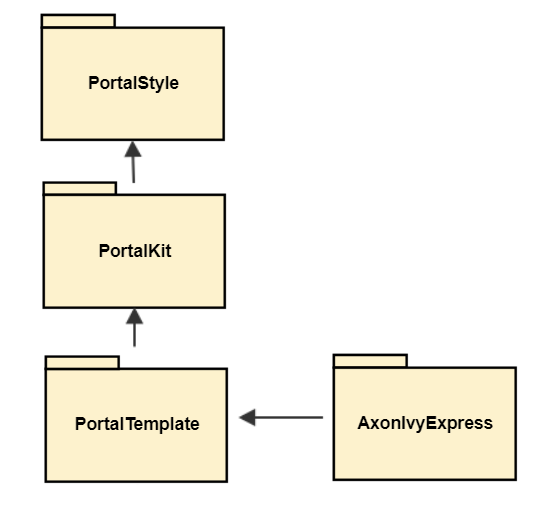
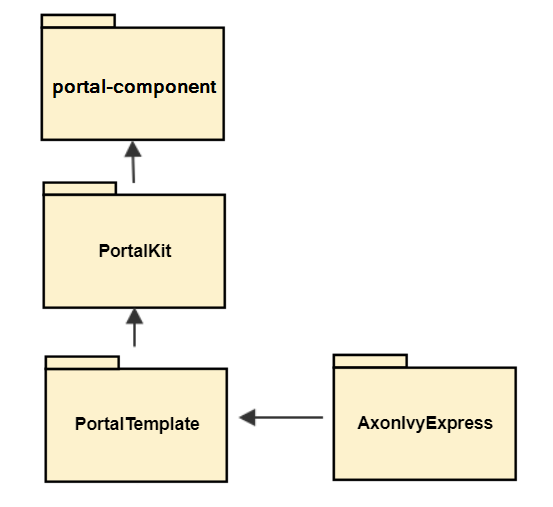
IVYPORTAL-13778-Remove-portalStyle-project * update document

Changed region(s): [[0.0922, 0.1479, 0.3996, 0.2071]]

diff --git a/Documentation/portal-guide/source/portal-developer-guide/customization/portal-style-customization-logos-colors-date-patterns.rst b/Documentation/portal-guide/source/portal-developer-guide/customization/portal-style-customization-logos-colors-date-patterns.rst
@@ -1,15 +1,15 @@
 .. _customization-portal-logos-and-colors:
 
-Portalstyle Customization (Logos, Colors, Date Patterns)
-========================================================
+Portal Styles Customization (Logos, Colors, Date Patterns)
+==========================================================
 
 .. _customization-portal-logos-and-colors-change-portal-logos:
 
 Change Logos in Portal
 ----------------------
 
-You can change both the top-left corner logo in the menu and the login logo by modifying the
-default logo graphics in the PortalStyle project. 
+You can change both the top-left corner logo in the menu and the login logo by
+using :dev-url:`Engine Branding </doc/nightly/designer-guide/user-interface/branding/branding-engine.html>`.
 
 We allow for two different logo graphics for the expanded and the collapsed
 menu. You can use one "pure" logo for the small, quadratic format (default: 42x42 pixels), and a logo
@@ -29,17 +29,13 @@ high resolution to prevent the blurring.
 We recommend using images with a transparent background, if your Corporate
 Identity does not define a mandatory background color. 
 
-To change the logos used in the Portal, follow the guidelines below.
+To change the logos used in the Portal, please use resources that are described at 
+:dev-url:`User Interface Branding <doc/nightly/designer-guide/user-interface/branding/branding-user-interface.html#resources>` and follow the guidelines below.
 
 Expanded Menu Logo
 ^^^^^^^^^^^^^^^^^^
 
--  Modify the CMS entry ``PortalStyle/images/logo/CorporateLogoSvg`` to update
-   the homepage logo when the left-hand menu is **expanded**. File type is SVG.
-
--  Modify the CMS entry ``PortalStyle/images/logo/CorporateLogo`` to update
-   homepage logo when the left-hand menu is expanded. File type is PNG. **Only use
-   this approach if you don't have an SVG logo.**
+-  Use resource ``logo`` to update the homepage logo when the left-hand menu is expanded.
 
    .. tip::
       - For PNG, we recommend using an image with a size of 168 pixels by 42 
@@ -48,55 +44,36 @@ Expanded Menu Logo
         
       - To scale your logo, override these variables: ``--home-logo-width``, ``--home-logo-height``.
 
-Collapsed Menu Logo
-^^^^^^^^^^^^^^^^^^^
+Login & Collapsed Menu Logo
+^^^^^^^^^^^^^^^^^^^^^^^^^^^
 
--  Modify the CMS entry ``PortalStyle/images/logo/SmallCorporateLogoSvg`` to
-   update homepage logo when the left-hand menu is **collapsed**. File type is SVG.
-
--  Modify the CMS entry ``PortalStyle/images/logo/SmallCorporateLogo`` to update
-   homepage logo when left-hand menu is collapsed. File type is PNG. **Only use
-   this approach if you don't have SVG file.**
-
-   .. tip::
-      - We recommend using an image with a size of 42 pixels by 42 pixels to fit the left menu size when it's collapsed.
-
-      - To scale your logo, override these variables: ``--small-home-logo-width``, ``--home-logo-height`` (the same variable for ``PortalStyle/images/logo/CorporateLogo`` and ``PortalStyle/images/logo/CorporateLogoSvg``).
-
-Login Logo
-^^^^^^^^^^
-
--  Modify the CMS entry ``PortalStyle/images/logo/loginLogoSvg`` to update
-   the login logo. File type is SVG.
-
--  Modify the CMS entry ``PortalStyle/images/logo/loginLogo`` to update
-   the login logo. File type is PNG. **Only use this approach if you don't have SVG file.**
+-  Use resource ``logo_small`` to update the login logo & the homepage logo when the left-hand menu is collapsed.
 
    .. tip::
       - We recommend using an image with size is 50x50 pixels.
 
-      - To scale your logo, override variable: ``--login-logo-height``, the width will be calculated automatically.
+      - To scale the login logo, override variable: ``--login-logo-height``, the width will be calculated automatically.
 
--  Modify CMS entry ``PortalStyle/images/logo/faviconLogoSvg`` to update
-   favicon logo. File type is SVG. This approach is highly recommended.
+      - To scale the homepage logo, override these variables: ``--small-home-logo-width``, ``--home-logo-height``.
 
--  Modify CMS entry ``PortalStyle/images/logo/faviconLogo`` to update
-   favicon logo. Recommended size for favicon: 16x16 or 32x32 pixels. Only use this approach if you don't have SVG file. File type is PNG.
+Favicon
+^^^^^^^
 
--  Please refer to default value of these variables: ``--home-logo-width``, ``--home-logo-height``, ``--small-home-logo-width``, ``--login-logo-height`` in
-   ``portal-variables.css`` to scale your logos.
+-  Use resource ``favicon`` to update the favicon.
 
-   .. _customization-portal-logos-and-colors-change-portal-background:
+   .. tip::
+      - We recommend using an image with size 16x16 or 32x32 pixels.
 
 Change Portal Styles
 --------------------
 
-The Portal uses modern |css_variable|  to support style customization. 
+The Portal uses modern |css_variable| to support style customization. 
 
-To customize the Portal styles in an upgrade safe way, follow this recipe:
+To customize the Portal styles in an upgrade safe way, we suggest that you copy all CSS variables and styles
+which you plan to override from the files ``portal-variables.css`` and ``portal.css`` to file ``custom.css``.
 
--  Store your customizations only in ``PortalStyle/webContent/resources/css/customization.css``.
--  We suggest that you copy all CSS variables and styles which you plan to override from the files ``portal-variables.css`` and ``portal.css`` in the same location.
+Refer to :dev-url:`Engine Branding </doc/nightly/designer-guide/user-interface/branding/branding-engine.html>` for the
+location of :dev-url:`custom.css </doc/nightly/engine-guide/configuration/files/custom-css.html>`.
 
 .. caution:: Please do not modify ``portal-variables.css`` and ``portal.css`` directly because they may change in a future Portal version.
 
@@ -131,9 +108,7 @@ Below is the list of some Portal elements which are using customizable colors:
    |                              |                             | - Text of active page number in datatable                      |
    +------------------------------+-----------------------------+----------------------------------------------------------------+
 
-You can customize in:
-
-- ``customization.css``: to change styles of Portal. E.g. Portal's component styles.
+You can customize the Portal styles in ``custom.css``.
 
   For example, to customize the default ``font-family``:
 
@@ -166,9 +141,9 @@ You can customize in:
 Change date time pattern
 ------------------------
 
-You can change date pattern by modifying CMS in PortalStyle project:
-``PortalStyle/patterns/datePattern`` and
-``PortalStyle/patterns/dateTimePattern``.
+You can change the date pattern by modifying the CMS in the PortalKit project:
+``PortalKit/patterns/datePattern`` and
+``PortalKit/patterns/dateTimePattern``.
 
 .. |css_variable| raw:: html
 

diff --git a/Documentation/portal-guide/source/portal-developer-guide/installation/index.rst b/Documentation/portal-guide/source/portal-developer-guide/installation/index.rst
@@ -18,7 +18,7 @@ Project Modules
 The application consists of four process modules. For detailed information
 on each module, refer to :ref:`architecture`.
 
--  PortalStyle
+-  portal-component
 -  PortalKit
 -  PortalTemplate
 -  AxonIvyExpress
@@ -95,9 +95,6 @@ In Designer
 
 #. Replace all Portal projects by the versions of the new release.
 #. Update PortalTemplate dependency of the customer project in pom.xml.
-#. If PortalStyle has been customized, copy logo, customization.scss,
-   font-faces.scss, and your other customizations from the old to new
-   PortalStyle, then run maven to compile CSS.
 #. Follow detailed migration notes for each version below.
 #. If customization needs copying code from Portal, merge changes between the
    two versions of the Portal for copied code.
@@ -148,6 +145,10 @@ Migrate 9.3 To 9.4
 #. The ``customization.css`` file has been removed, in case you use it in your project, please switch to using
    :dev-url:`Engine Branding </doc/nightly/designer-guide/user-interface/branding/branding-engine.html>` to customize styling
 
+#. The ``PortalStyles`` has been removed in 9.4. If you have customized PortalStyle, please use
+   :ref:`Customization Portal Logos And Colors <customization-portal-logos-and-colors>` to override login background, favicon & logo images.
+   If you changed some cms in PortalStyle, please adapt accordingly it on PortalKit.
+
 #. Sub processes related to documents are moved to the independent project ``portal-component``.
    If you customized these processes, please override the correspond sub process again and added your customization to it.
    
@@ -184,6 +185,7 @@ Migrate 9.3 To 9.4
    - :ref:`Migration steps <components-additional-components-migrate-from-old-process-history>` for the new :ref:`Process History <components-additional-component-process-history>` component.
 
    - :ref:`Migration steps <components-additional-components-migrate-from-old-process-chain>` for the new :ref:`Process Chain <components-additional-component-process-chain>` component.
+
 
 Migrate To 9.3
 --------------
@@ -337,6 +339,8 @@ Changes in 9.4
 - Introduce new ``Task ID``, ``Task Name``, ``Case ID`` and ``Case Name`` filter in the Portal full task list and case list.
 
 - Introduce the ``Process Viewer`` page, user can get the visual viewer of the process start. See details :ref:`Show Process Viewer <how-to-show-process-viewer>`
+
+- Remove the PortalStyle project. The CMS in PortalStyle has been moved to PortalKit.
 
 Changes in 9.3
 --------------

diff --git a/Documentation/portal-guide/source/portal-developer-guide/customization/change-group-id.rst b/Documentation/portal-guide/source/portal-developer-guide/customization/change-group-id.rst
@@ -11,7 +11,7 @@ When And Why You Need To Change the GroupId
 -------------------------------------------
 
 Most customers want to change (at least) colors and logos in their version of
-the portal, so they need to update the project PortalStyle. Changing anything in
+the portal, so they need to update the project portal-component. Changing anything in
 the Portal **requires** a change of the Maven identifier, which consists of
 artifactId, groupId, and version. If the Portal is changed without adapting this
 identifier, then the changed version will be written to your local Maven
@@ -20,13 +20,13 @@ the same Portal version**.
 
 Let's explain this: If you have two customer projects that use different logos
 or colors using the **same Portal version**, and you build it using maven, e.g.
-you execute ``mvn clean install`` on PortalStyle of Project 1, then the local
-maven repository stores PortalStyle of Project 1. Later you build the deployment
+you execute ``mvn clean install`` on  portal-component of Project 1, then the local
+maven repository stores  portal-component of Project 1. Later you build the deployment
 package of Project 2, and it will collect all dependencies of Project 2 to build
-a zip file. But now PortalStyle from the local maven repository will be found
+a zip file. But now  portal-component from the local maven repository will be found
 and used. This means that the deployment package of Project 2 contains
-PortalStyle of Project 1. This is a problem because the deployment package of
-Project 2 should contain PortalStyle of Project 2.
+portal-component of Project 1. This is a problem because the deployment package of
+Project 2 should contain  portal-component of Project 2.
 
 The preferred and supported way to create a new Portal maven identifier is to
 change the groupId only. Best practice is to change it to the groupId that you
@@ -34,7 +34,7 @@ use for your other projects in the same deployment package. Because of
 dependencies between the Portal projects, you **have to propagate** this change
 to all Portal projects (and their dependencies).
 
-.. important:: Do not change ``artifactId`` such as PortalStyle, PortalKit...
+.. important:: Do not change ``artifactId`` such as portal-component, PortalKit...
 
 .. note::
 	Do not forget to change default pages to your project, follow this chapter to customize standard processes:

diff --git a/Documentation/portal-guide/source/portal-developer-guide/architecture/index.rst b/Documentation/portal-guide/source/portal-developer-guide/architecture/index.rst
@@ -10,12 +10,21 @@ Architecture
       only used internally in Portal. Don't use them because they can be
       changed in future versions.
 
-The Portal system consists of the following modules: PortalStyle, PortalKit, PortalTemplate and AxonIvyExpress. 
+The Portal system consists of the following modules: portal-component, PortalKit, PortalTemplate and AxonIvyExpress. 
 While AxonIvyExpress is optional, all other modules are mandatory.
 
 |process-module-structure|
 
 .. _architecture-portalkit:
+
+portal-component
+================
+
+**Contains a set of public UI components** 
+
+This module contains 5 JSF Ivy components such as User Selection, Role Selection,
+Document Table, Process Chain and Process History. The end user can use these
+components without other modules (PortalKit, PortalTemplate and AxonIvyExpress modules).
 
 PortalKit
 ==========
@@ -27,23 +36,6 @@ Process Data such as tasks, cases, absences, ...,  CSS styles and JavaScript
 files for components and the theme library. This is the most important module
 that you need to use the Portal. This module also contains the AdminSettings
 component that is used to configure Portal.
-
-.. _architecture-portal-style:
-
-PortalStyle
-============
-
-**Contains overrideable style definitions**
-
-The Portal supports customization of various colors of the layout
-such as background color, text color, border color, button color,
-focus- and hover color using variables.
-
-.. note:: 
-
-      This module is intended to be overridden by process developers to include
-      customer Corporate Identity by editing CSS files and optionally provide
-      artifacts like logos, pictures, icons etc.
 
 .. _architecture-portal-template:
 

diff --git a/Documentation/portal-guide/source/portal-developer-guide/settings/index.rst b/Documentation/portal-guide/source/portal-developer-guide/settings/index.rst
@@ -39,7 +39,7 @@ Language Settings
    :ref:`language-settings` in :ref:`my-profile` in the Portal User Guide.
 
 -  For multiple languages, the CMS key ``/AppInfo/SupportedLanguages`` has to
-   exist in your application. This CMS entry is located in Portal Style. It
+   exist in your application. This CMS entry is located in PortalKit. It
    contains a comma separated list of all languages supported by your
    application.
 
@@ -52,7 +52,7 @@ Language Settings
 
 -  To add a new language to Portal, what you have to do is:
 
-   -  Open CMS item ``/AppInfo/SupportedLanguages`` in Portal Style, then add the new language, for example, Italian
+   -  Open CMS item ``/AppInfo/SupportedLanguages`` in PortalKit, then add the new language, for example, Italian
 
       |add-new-item-to-cms-language|
 
@@ -61,12 +61,12 @@ Language Settings
 
       |add-new-item-to-cms-language-after|
 
-   -  Export all CMS entries of Portal Style to an Excel file, then add the translations for the new language for all CMS entries
+   -  Export all CMS entries of PortalKit to an Excel file, then add the translations for the new language for all CMS entries
 
       |export-cms|
 
    -  Import the Excel file.
-   -  Redeploy PortalStyle.
+   -  Redeploy PortalKit.
 
 
 Role Configuration

diff --git a/Documentation/portal-guide/source/portal-developer-guide/customization/default-chart-colors.rst b/Documentation/portal-guide/source/portal-developer-guide/customization/default-chart-colors.rst
@@ -97,7 +97,7 @@ Portal introduces the **StatisticColors** object. We use it to build a color **D
 
 ..
 
-You can override data label colors by re-defining the values of the variables in ``customization.css`` below:
+You can override data label colors by re-defining the values of the variables in ``custom.css`` below:
 
  - ``--chart-label-default-exception-priority-color`` to override label color of exception priority task
  - ``--chart-label-default-high-priority-color`` to override label color of high priority task
@@ -114,7 +114,7 @@ You can override data label colors by re-defining the values of the variables in
  - ``--chart-label-default-task-month-color`` to override label color of this month task
  - ``--chart-label-default-task-year-color`` to override label color of this year task
 
-In Portal home, you can override the color of the Statistic Carousel header by re-defining the value of the variables in ``customization.css`` below:
+In Portal home, you can override the color of the Statistic Carousel header by re-defining the value of the variables in ``custom.css`` below:
 
  - ``--statistic-panel-header`` to override background color of Carousel header
  - ``--statistic-panel-header-border`` to override border color of Carousel header

diff --git a/Documentation/portal-guide/source/portal-developer-guide/customization/case-widget.rst b/Documentation/portal-guide/source/portal-developer-guide/customization/case-widget.rst
@@ -84,7 +84,7 @@ function of these columns work:
 
    -  To add a CMS for checkbox label, add new entries to folder
       ``/ch.ivy.addon.portalkit.ui.jsf/caseList/defaultColumns/`` in
-      ``PortalStyle`` or override method ``getColumnLabel``\ (see the methods'
+      ``PortalKit`` or override method ``getColumnLabel``\ (see the methods'
       Javadoc comments)
 
    -  In the ``caseListHeader`` section, use the ``CaseColumnHeader`` component

diff --git a/Documentation/portal-guide/source/portal-developer-guide/customization/task-widget.rst b/Documentation/portal-guide/source/portal-developer-guide/customization/task-widget.rst
@@ -76,7 +76,7 @@ function of these columns work:
 
    *  To add CMS for checkboxes's label, add new entries to folder
       ``/ch.ivy.addon.portalkit.ui.jsf/taskList/defaultColumns/`` in
-      ``PortalStyle`` or override method ``getColumnLabel``\ (see the
+      ``PortalKit`` or override method ``getColumnLabel``\ (see the
       methods' Javadoc comments)
 
    *  In ``taskListHeader`` section, use ``TaskColumnHeader`` component
